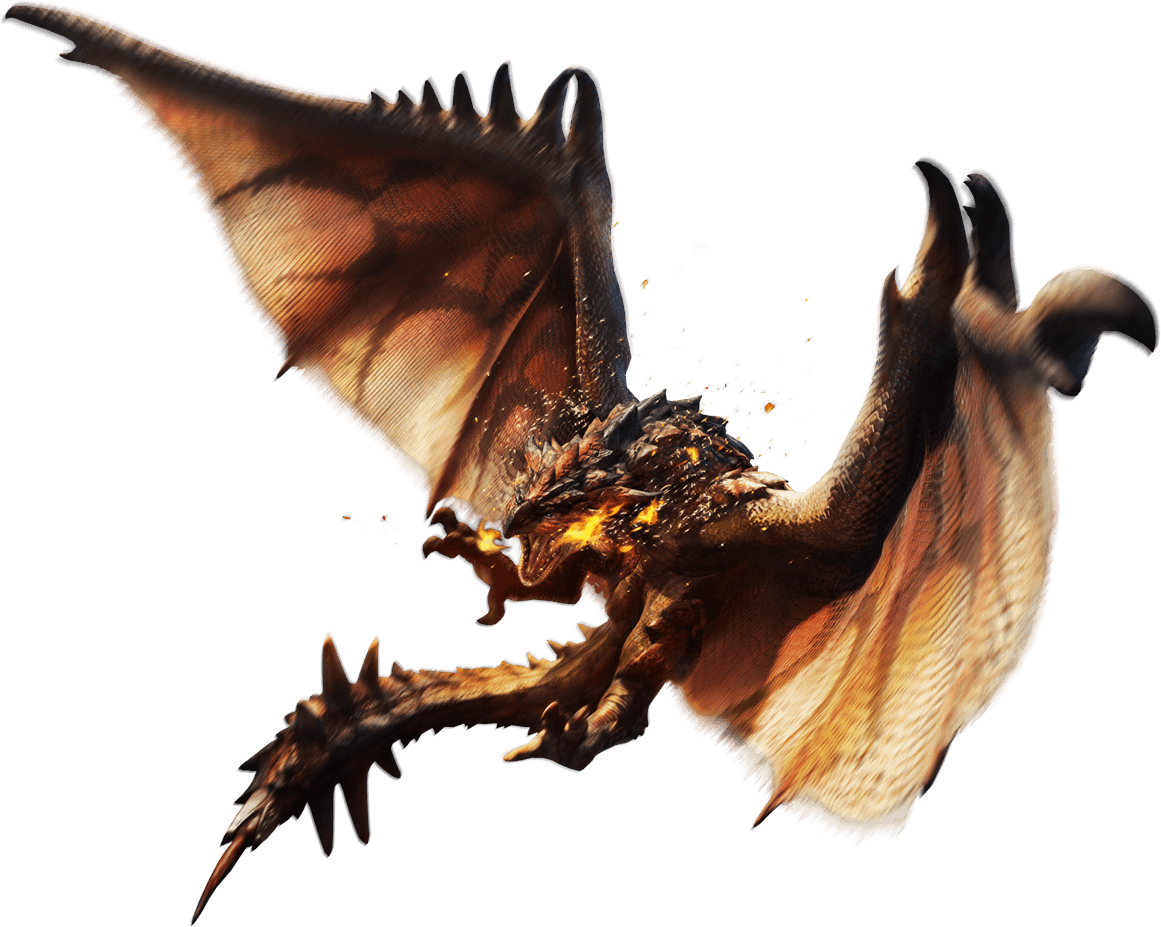
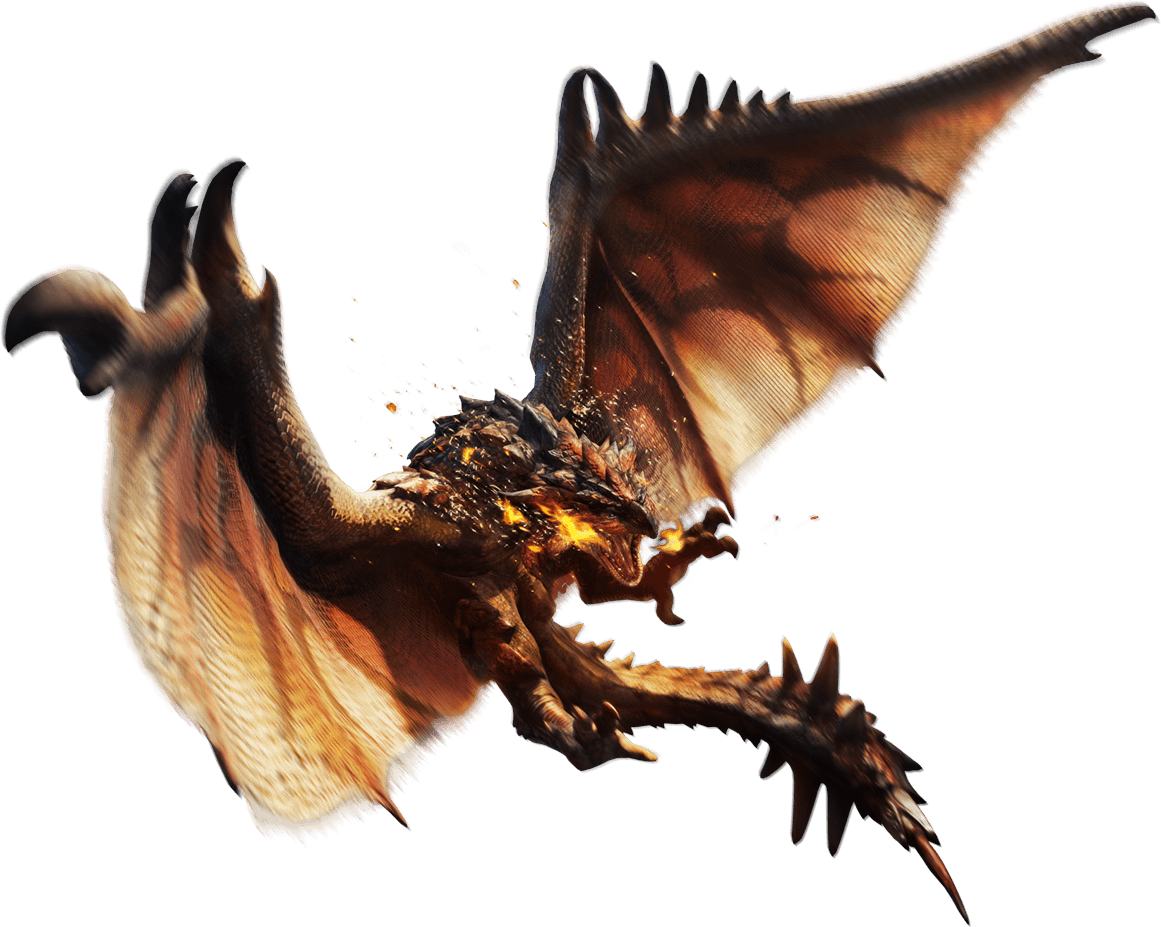
got renders on both sides to appear, still needs work

diff --git a/assets/javascript/game.js b/assets/javascript/game.js
@@ -9,15 +9,12 @@ var game = {
 
 	assignStats: function(stats, monster) {		
 
-		console.log(game.rathalos);
-
 		monster.attr("name", stats.name);
 		monster.attr("atk", stats.attack);
 		monster.attr("base", stats.attack);
 		monster.attr("cAtk", stats.counterAtk);
 		monster.attr("hp", stats.healthPoints);
 
-		// console.log("Attack: " + monster.attr("atk") + " Counter: " + monster.attr("cAtk") + " Health: " + monster.attr("hp"));
 		monster.append("<p>Attack: " + monster.attr("atk") + "<br> Counter: " + monster.attr("cAtk") + "<br> Health: " + monster.attr("hp") + "</p>");
 	},
 
@@ -25,34 +22,36 @@ var game = {
 		$(stats).text("Attack: " + monster.attr("atk") + " Counter: " + monster.attr("cAtk") + " Health: " + monster.attr("hp"));
 	},
 
-	// hoover: function(select) {
-	// 	select.not(".render").hover(function(){
-	// 		$(this).find(".render").fadeIn("fast");
-	// 	},
-	// 	function(){
-	// 		$(this).find(".render").fadeOut("fast");
-	// 	});
+	showRender: function(selection, side){
 
-	showRender: function(selection){
 		if(game.playerSelect === false){
-			$(selection).mouseenter(function(){
-				$(selection).find(".render").stop(true).fadeIn("fast");		
-			}).mouseleave(function(){
-					if (game.playerSelect !== true) {
-						$(selection).find(".render").hide();
-					}
-			});
-		}
-	}
-
-	// hideRender: function(selection){
-
-	// 	$(selection).mouseleave(function(){
-	// 		console.log(game.playerSelect);
-	// 		$(selection).find(".render").hide();
-	// 	});
-	// }
+			$(selection).find(side).stop(true).fadeIn("fast")
 	
+			$(selection).mouseleave(function(){
+				if (game.playerSelect === false) {
+					$(selection).find(side).hide();
+				}
+			});
+		};
+	},
+
+	showFlipRender: function(selection, side){
+
+		if(game.defenderSelect === false){
+			$(selection).find(side).stop(true).fadeIn("fast")
+	
+			$(selection).mouseleave(function(){
+				if (game.defenderSelect === false) {
+					$(selection).find(side).hide();
+				}
+			});
+		};
+	},
+
+	flipRender: function(selection){
+		$(left).not($(selection).find(left)).addClass("flip-render").removeClass("render");
+		// $(document).find(left).not($(selection).find(left)).addClass("flip-render").removeClass("render");
+	}
 }
 
 var rath = $("#rathalos");
@@ -60,6 +59,8 @@ var tig = $("#tigrex");
 var zino = $("#zinogre");
 var gore = $("#gore-magala");
 var i = 3;
+var left = ".render";
+var right = ".flip-render";
 
 game.assignStats(game.rathalos, rath);
 game.assignStats(game.tigrex, tig);
@@ -67,15 +68,12 @@ game.assignStats(game.zinogre, zino);
 game.assignStats(game.gore_magala, gore);
 
 
+$(left).hide();
 
-$(".render").hide();
+$(document).on("mouseover", "#players>div", function(){
 
-
-
-game.showRender(rath);
-game.showRender(tig);
-game.showRender(zino);
-game.showRender(gore);
+	game.showRender(this, left, game.playerSelect);
+});
 
 $(document).on("click", "#players>div", function() {
 
@@ -87,14 +85,16 @@ $(document).on("click", "#players>div", function() {
 
 		game.playerSelect = true;
 		$("#message").text("Choose your target");
-		$(this).find(".render").stop(true);
-		console.log("test");
+		
+		game.flipRender(this);
 	};
 });
 
+$(right).hide();
 
-
-
+$(document).on("mouseover", "#enemies>div", function(){
+	game.showFlipRender(this, right);
+});
 	
 $(document).on("click", "#enemies>div", function() {	
 
@@ -106,7 +106,6 @@ $(document).on("click", "#enemies>div", function() {
 
 		game.defenderSelect = true;
 		$("#message").text("Hit the FIGHT button to battle!")
-		$(this).stop();
 	}
 });
 

diff --git a/assets/css/style.css b/assets/css/style.css
@@ -30,12 +30,23 @@ h2 {
 	float: left;
 }
 
-.render {
+.render,
+.flip-render {
 	position: absolute;
-	left: -50px;
 	top: 0px;
 	height: 450px;
 	width: auto;
+}
+
+.render {
+	left: -50px;
+}
+
+.flip-render {
+	-moz-transform: scale(-1, 1);
+	-webkit-transform: scale(-1, 1);
+	transform: scale(-1, 1);
+	right: -50px;
 }
 
 #space {
